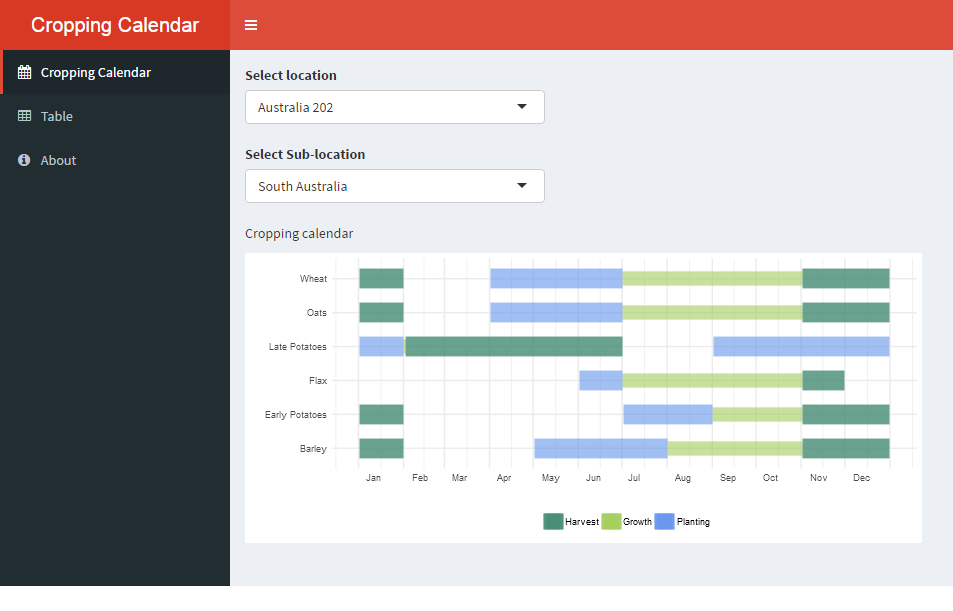
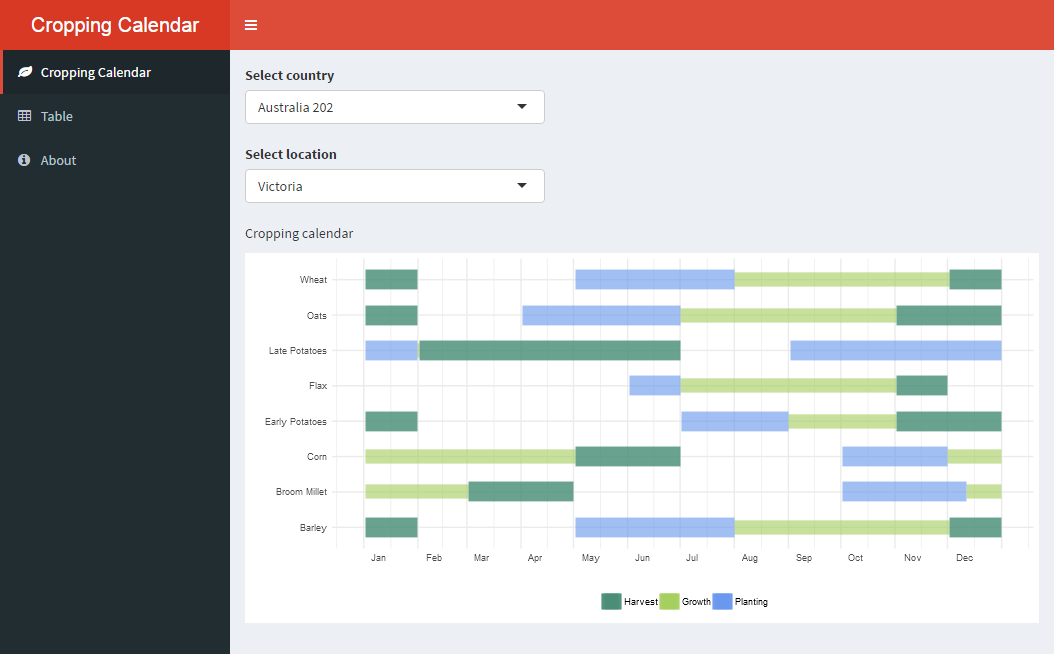
new screenshots

diff --git a/README.md b/README.md
@@ -24,7 +24,7 @@ shiny::runGitHub('asheshwor/cropcal')
 ![app screenshot 1](img/eg_au.png)
 <small>Screenshot of app</small>
 
-![app screenshot 2](img/eg_elsalvador.png)
+![app screenshot 2](img/eg_fr.png)
 <small>Screenshot of app</small>
 
 ## Data source
